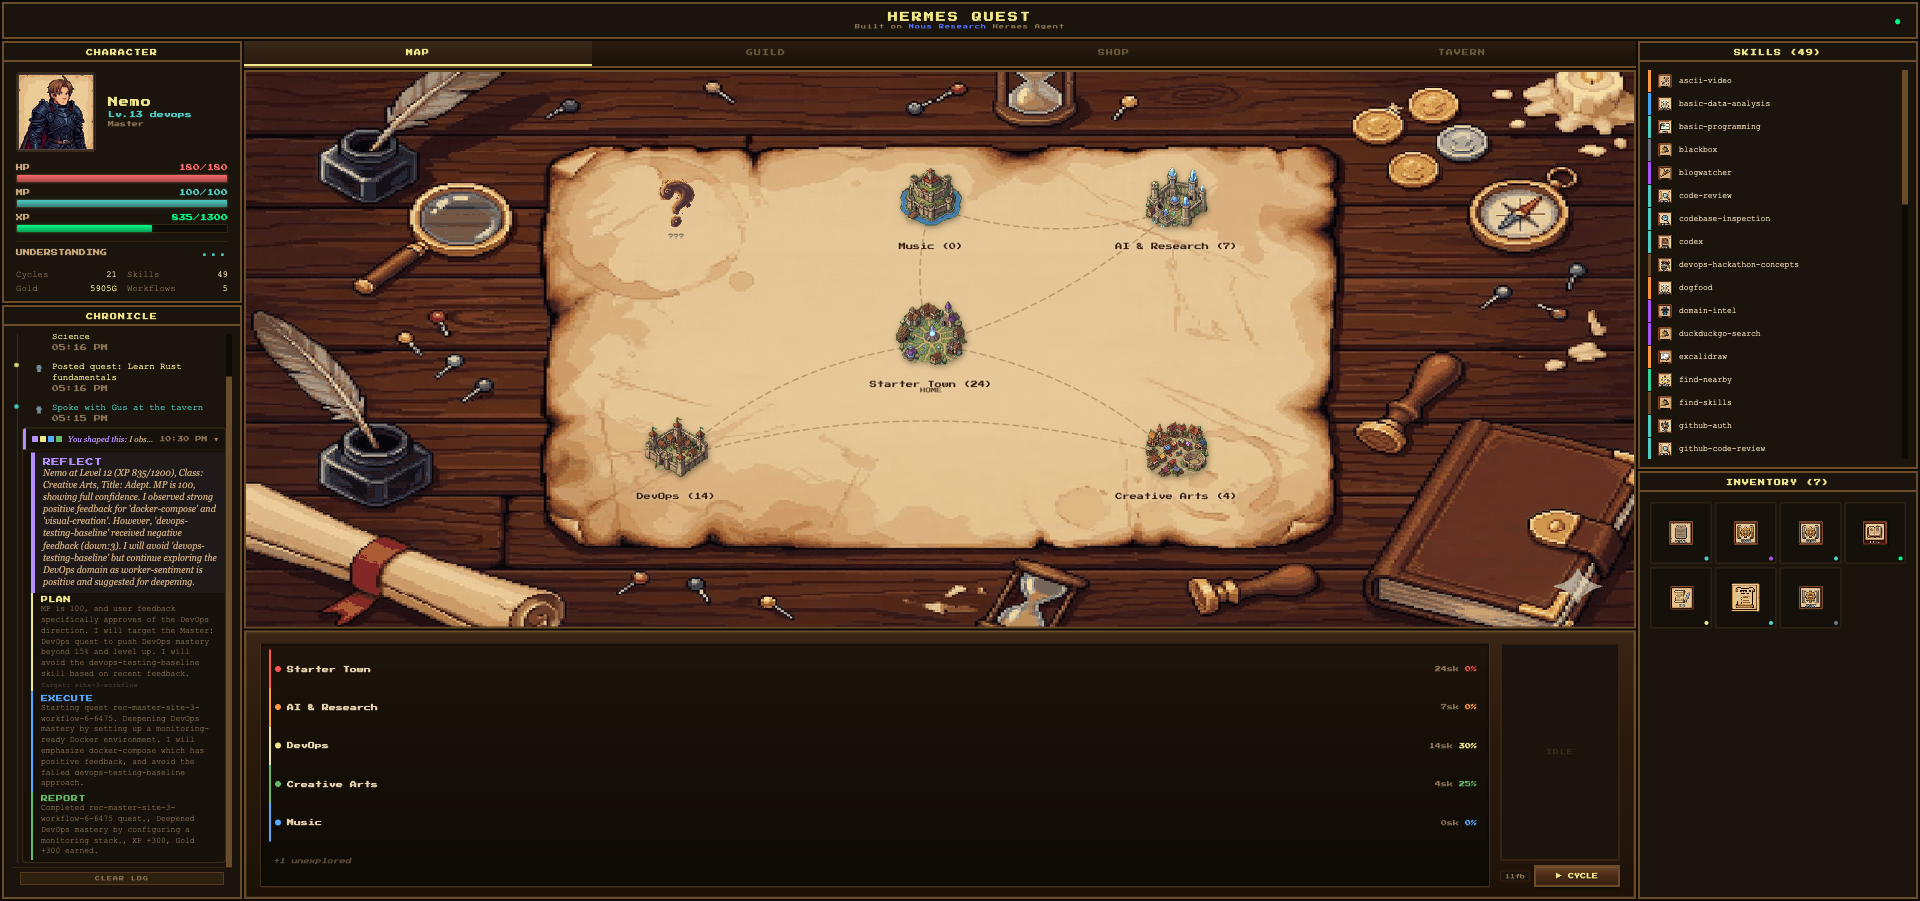
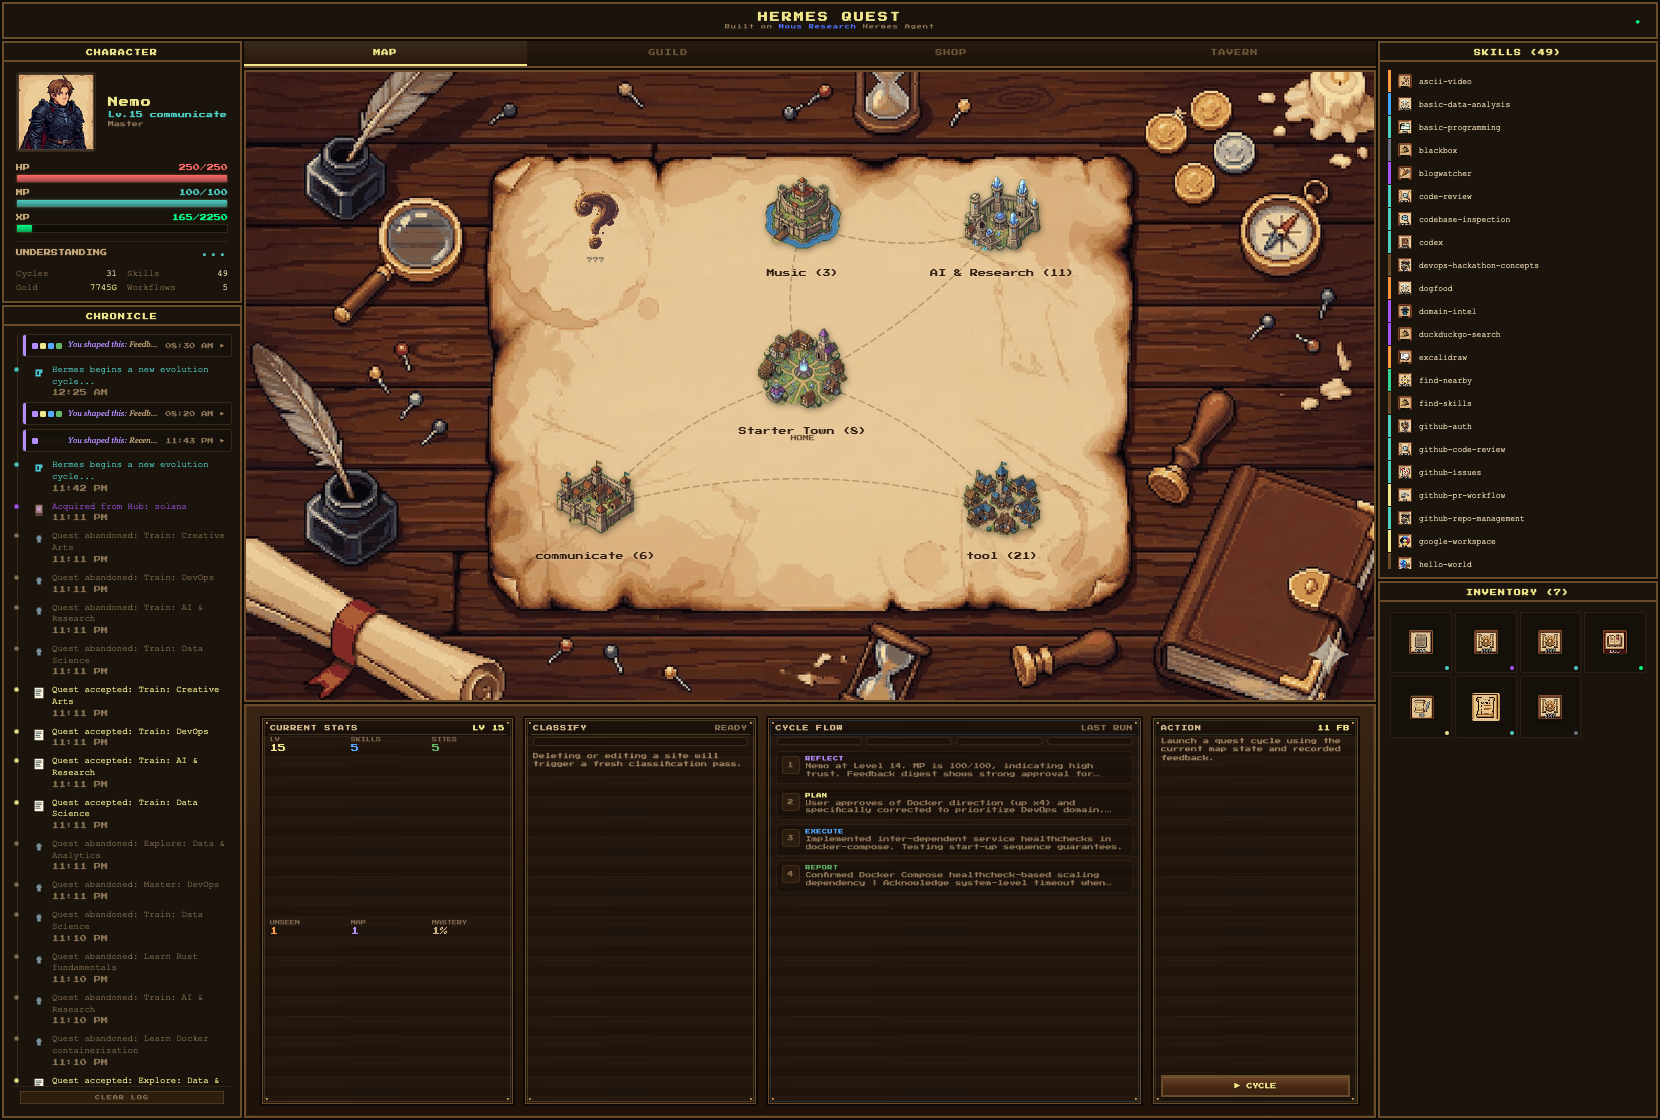
docs: refresh readme screenshots

diff --git a/README.md b/README.md
@@ -46,22 +46,35 @@ RPG 层不是装饰 — 它**降低了指挥 AI 的认知门槛**。你不需要
 <table>
 <tr>
 <td width="50%" align="center">
-<strong>Modified Map / 最新地图界面</strong><br/>
-<img src="assets/screenshots/map-overview.png" alt="Modified Map" width="100%"/>
+<strong>Map / 地图</strong><br/>
+<img src="assets/screenshots/map.png" alt="Map" width="100%"/>
 </td>
 <td width="50%" align="center">
-<strong>Constellation Hover / 星图悬停</strong><br/>
-<img src="assets/screenshots/map-constellation-hover.png" alt="Constellation Hover" width="100%"/>
+<strong>Guild / 公会</strong><br/>
+<img src="assets/screenshots/guild.png" alt="Guild" width="100%"/>
 </td>
 </tr>
 <tr>
 <td align="center">
-<strong>Skill Shop / 技能商店</strong><br/>
+<strong>Shop / 商店</strong><br/>
 <img src="assets/screenshots/shop.png" alt="Shop" width="100%"/>
 </td>
 <td align="center">
-<strong>NPC Tavern / NPC 酒馆</strong><br/>
+<strong>Tavern / 酒馆</strong><br/>
 <img src="assets/screenshots/tavern.png" alt="Tavern" width="100%"/>
+</td>
+</tr>
+</table>
+
+<table>
+<tr>
+<td width="50%" align="center">
+<strong>Star Graph / 星图</strong><br/>
+<img src="assets/screenshots/star-graph.png" alt="Star Graph" width="100%"/>
+</td>
+<td width="50%" align="center">
+<strong>Chronicle / 编年史</strong><br/>
+<img src="assets/screenshots/chronicle.png" alt="Chronicle" width="100%"/>
 </td>
 </tr>
 </table>
